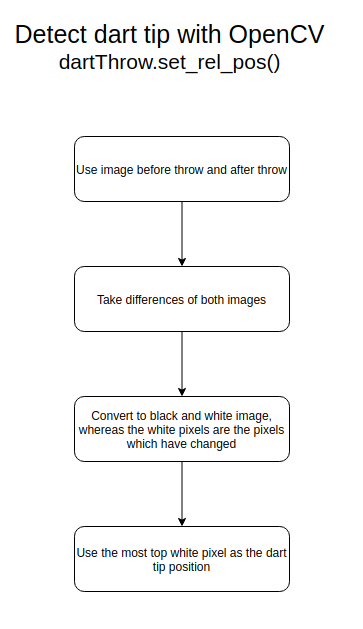
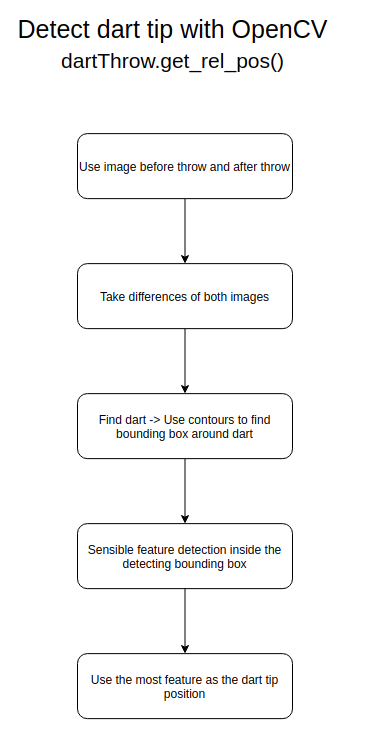
Documentation

diff --git a/readme.md b/readme.md
@@ -6,21 +6,6 @@
 
 # Readme.md
 
-<html>
-    <iframe
-   src="docs/drawio.html"
-   width="90%" 
-   height="400" 
-   name="SELFHTML_in_a_box">
-    </iframe>
-    <iframe
-   src="https://https://www.google.de/"
-   width="90%" 
-   height="400" 
-   name="SELFHTML_in_a_box">
-    </iframe>
-</html>
-
 **Table of Contents**
 
 # Getting Started
@@ -57,15 +42,30 @@ Afterwards a motion detection will detect changes in the camera capture and will
 
 <img src="docs/General_flow.png?raw=true" alt="drawing" width="200"/>
 
-## 2.  Detect dart tip
+## 2.  Detect dart position
 
-We now have two images - one from before the throw and one from after the throw. We use opencv to take the difference of both images. Other openCV functions help us to convert the image to black and white, whereas the white pixels are the one which haved changed.
 
-<img src="docs/BW_diff.png?raw=true" alt="drawing" width="300"/>
+We have two images - one from before the throw and one from after the throw. We use opencv to take the difference of both images. 
 
-To detect the dart tip positon now, we can simply use the most top white pixel in the image difference. This works as long as the angle of the camera relative to the dart board plane is lower than angle between the dart board and the dart.
+Note: It is easy to detect the dart - the difficult thing is to detect the exect position of dart tip - especially under  hard light conditions or if the dart tip has almost the same color as the background
 
 <img src="docs/Detection_flow.png?raw=true" alt="drawing" width="300"/>
+
+### Detect dart
+
+First we want to know where the dart is. We use the opencv contour detection and draw a bounding box around our dart.
+
+<img src="docs/contours.jpg?raw=true" alt="drawing" width="300"/>
+
+### Detect tip
+
+Now we make the box slightly bigger. Thereby we ensure that the darttip is definetly inside of the box (in case the contour detection only detected the rest of the dart and not the tip)
+
+We use a detailed feature point detection inside the bounding box. The most top feature point is used as our dart position.
+
+<img src="docs/features.jpg?raw=true" alt="drawing" width="40"/><br>
+
+<img src="docs/rec_dart.jpg?raw=true" alt="drawing" width="300"/>
 
 ## 3. Transform dart tip postion to score
 
